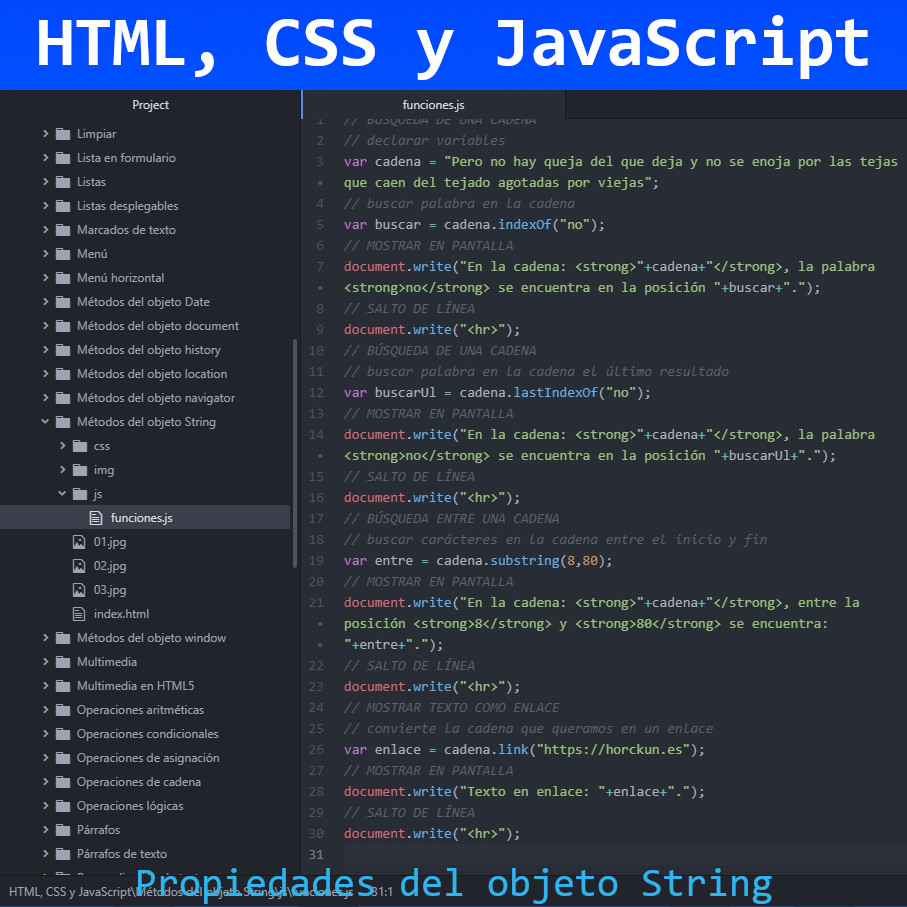
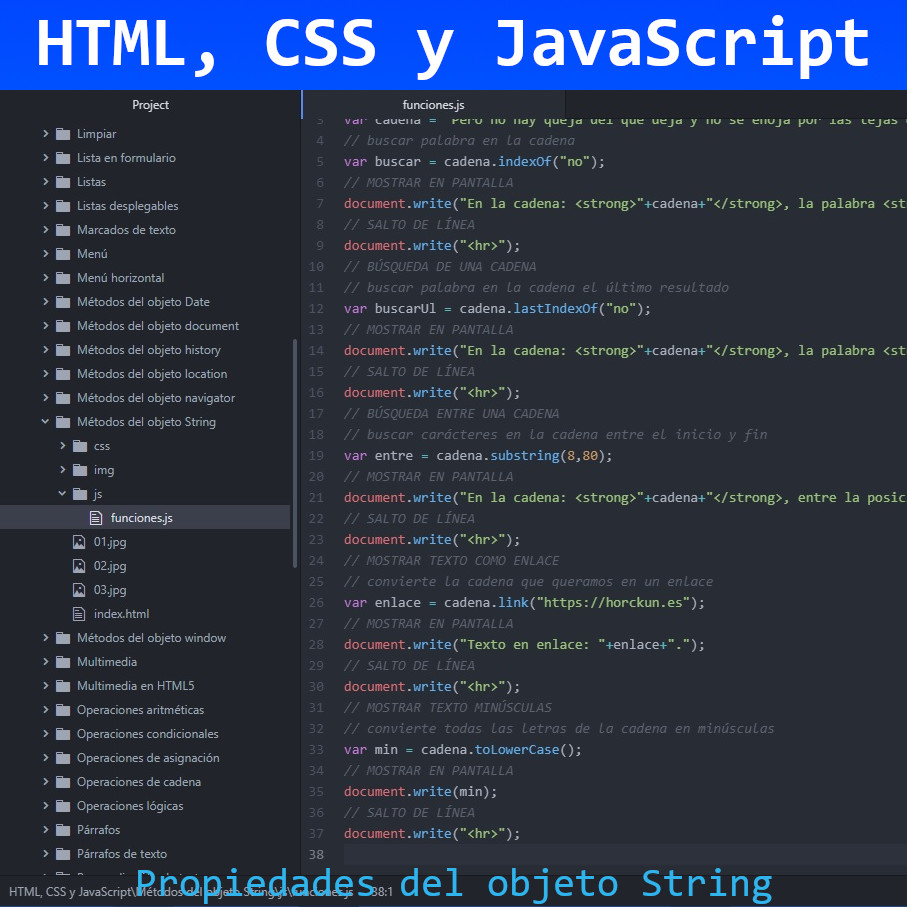
Métodos del objeto String
Métodos del objeto String en JavaScript

diff --git a/HTML, CSS y JavaScript/Métodos del objeto String/js/funciones.js b/HTML, CSS y JavaScript/Métodos del objeto String/js/funciones.js
@@ -28,3 +28,10 @@ var enlace = cadena.link("https://horckun.es");
 document.write("Texto en enlace: "+enlace+".");
 // SALTO DE LÍNEA
 document.write("<hr>");
+// MOSTRAR TEXTO MINÚSCULAS
+// convierte todas las letras de la cadena en minúsculas
+var min = cadena.toLowerCase();
+// MOSTRAR EN PANTALLA
+document.write(min);
+// SALTO DE LÍNEA
+document.write("<hr>");
